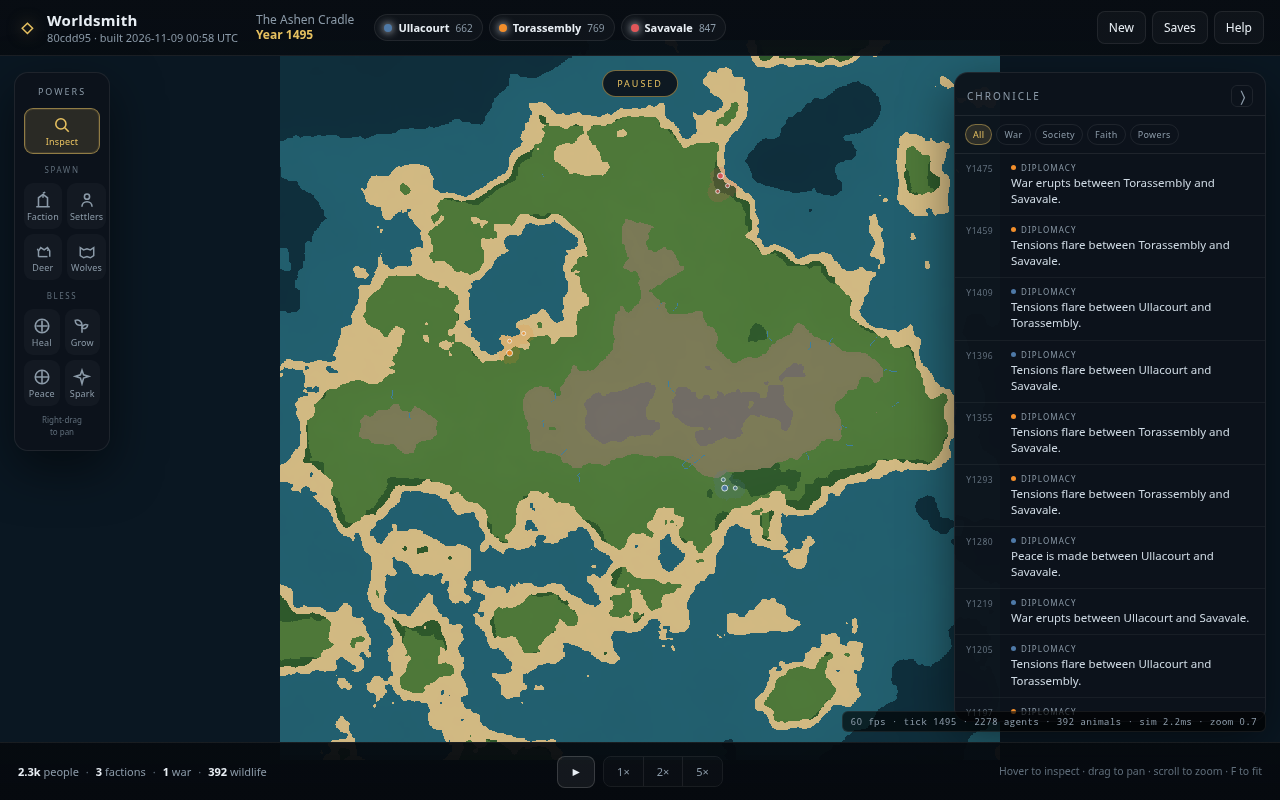
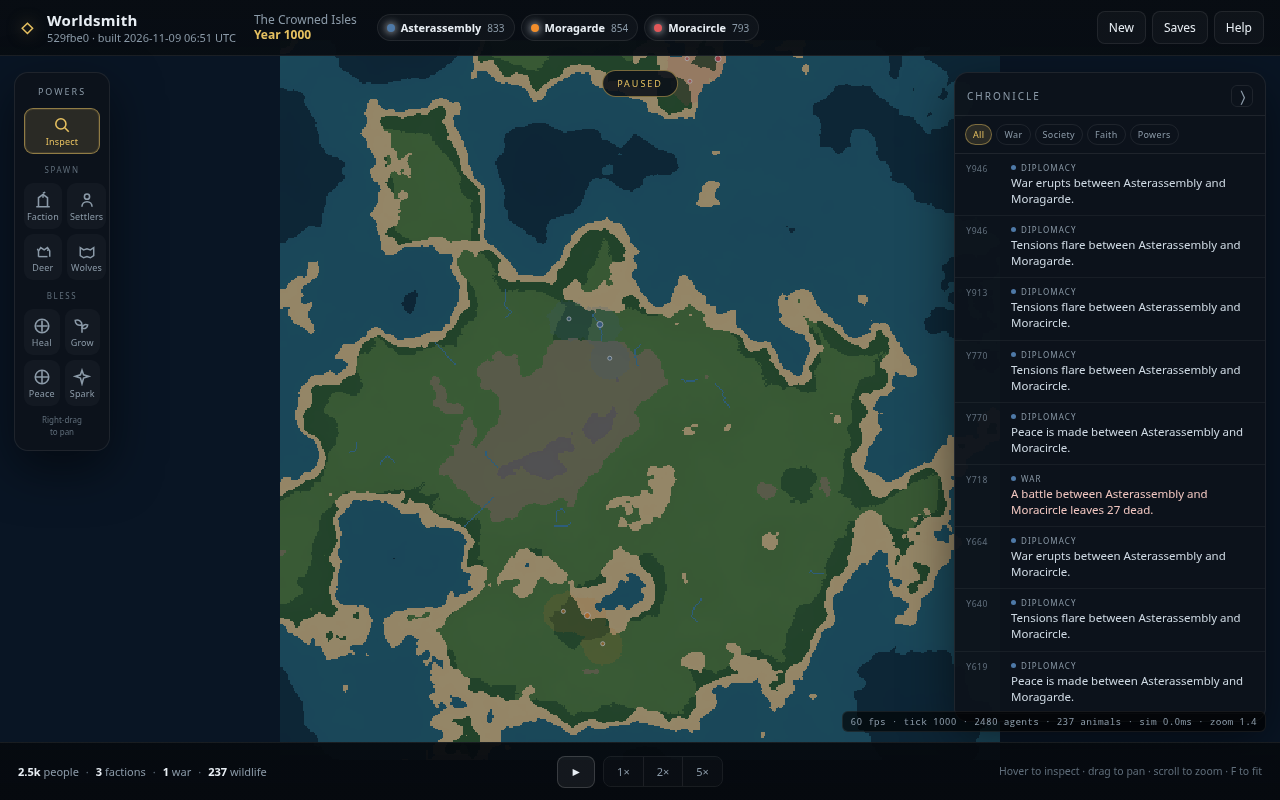
docs: record audit fixes and refresh screenshots

diff --git a/PLAN.md b/PLAN.md
@@ -62,6 +62,10 @@ In one line: **WorldBox-style living world, focused on societies rather than dis
   texture, territory overlay, cosmetic day/night, capital and settlement labels, boats.
 - **Ops** — Cloudflare Workers static-assets config, deploy script, commit/build
   metadata in the game header, dev server on `0.0.0.0`.
+- **Reliability & balance pass** — zero-population factions are eliminated, famine scales
+  with the food deficit and varies per person, migration/cross-settlement labour populates
+  new cities, defenders intercept and wars cause casualties, and the HUD exposes
+  per-settlement population/housing plus food shortages.
 
 ## 4. Milestones
 
@@ -75,6 +79,7 @@ In one line: **WorldBox-style living world, focused on societies rather than dis
 | 6 | Review-found war retry throttle | ✅ Done | `80cdd95`; 45 tests; 1024 pacing test 4.3 s → 1.1 s |
 | 7 | AGENTS.md & PLAN.md tracking | ✅ Done | This document |
 | 8 | Naval transport, Metropolis + multi-settlement growth, saves refresh, build-metadata safety, docs | ✅ Done | PR #11; 78 tests; browser QA |
+| 9 | Audit fixes: zero-pop extinction, proportional/varied famine, city migration + cross-settlement labour, defender interception, HUD warnings | ✅ Done | PR #11 follow-up; 85 tests; 1000-year run QA |
 
 ## 5. Verification snapshot
 
@@ -82,15 +87,18 @@ As of **2026-11-09** (branch `feat/navies-settlements-hardening`, based on `850f
 
 - `npm install` completed; `@types/node` and `wrangler` present.
 - `npm run typecheck` — pass.
-- `npm test` — **78/78 pass** across 15 test files (~12 s).
-- `npm run build` — pass; production `dist/` generated (39 modules, ~137 kB JS).
+- `npm test` — **85/85 pass** across 19 test files (~15 s).
+- `npm run build` — pass; production `dist/` generated (39 modules, ~140 kB JS).
 - Browser checks at 1280×800 — creation, 512²/1024² growth runs, Metropolis and
-  three-city faction panel, settlement labels, boat rendering, save slot → load,
-  live autosave row refresh while the Saves menu is open, old pre-change Slot I save
-  loads, no console errors.
+  three-city faction panel with per-settlement residents/housing, settlement labels,
+  boat rendering, save slot → load, live autosave row refresh while the Saves menu is
+  open, no console errors.
+- Audit runs (AUDIT3 512², AUDIT4 256², 1,000 years) — no zero-population “zombie”
+  factions, no empty satellite settlements, no famine extinctions; 2–12 battles and
+  47–557 casualties per run; navies sailed and landed.
 - Performance — 1024² at year 1401: **2,522 people / 9 cities / 626 buildings**, solid
-  **60 fps at 5×** zoomed out, **~1.6 ms/tick** simulation cost; 1,400 ticks in 3.6 s.
-  A 512² run reached 2,298 people across 9 cities by year 901.
+  **60 fps at 5×** zoomed out; a 512² run reached 2,468 people / 9 cities by year 1000
+  and stayed at ~60 fps at 5× in browser QA.
 - Dev server — `http://127.0.0.1:5173/`; responsive; no replacement server started.
 - Deployment — not performed; Cloudflare remains unauthenticated.
 - CI — intentionally **not added** (explicit user request); all verification is local.
@@ -106,6 +114,13 @@ As of **2026-11-09** (branch `feat/navies-settlements-hardening`, based on `850f
 - [x] **Build metadata test safety:** `__COMMIT_HASH__`/`__BUILD_DATE__` are defined
       for Vitest; header rendering is covered by `tests/build-info.test.ts`.
 - [x] **Keep docs current:** README screenshots, PLAN status, AGENTS constraints.
+- [x] **Audit fixes:** population extinction, proportional famine, empty-city
+      migration/labour, defender interception, food-shortage HUD warnings.
+- [ ] **Late-game economy:** resources cap and much of the population is idle; add
+      upkeep/sinks, more job slots or new late-era content.
+- [ ] **Four-city expansion:** the 512² agent cap makes the fourth city rare; tune the
+      expansion threshold or cap.
+- [ ] **War balance:** 256² casualty counts are high; tune army size and recovery.
 - [ ] **Automated browser smoke tests:** manual browser QA performed; automation
       (e.g. Playwright) still deferred.
 - [ ] **Deploy after approval:** needs Cloudflare credentials and explicit permission.
@@ -138,9 +153,11 @@ As of **2026-11-09** (branch `feat/navies-settlements-hardening`, based on `850f
 
 | Issue | Impact | Next step |
 |---|---|---|
+| Late-game resources cap and much labour is idle | Food/materials/wealth/knowledge saturate; most adults have no job slot | Add upkeep/sinks, more job slots or late-era content |
+| Fourth city is rare on 512² | Three civs reach the 2,500-agent cap before the 900-pop expansion mark | Tune expansion thresholds or raise the cap after profiling |
+| 256² wars are very costly | 557 casualties over 1,000 years in one audit run | Tune army size, healing and peace conditions |
 | No civilian sea migration or overseas settlements | New cities must be on the same landmass; navies are military-only | Future coastal expansion/colony mechanic |
 | Settlement founding is AI-only | Players cannot directly plant a city; factions expand on their own | Consider a "found settlement" power if requested |
-| Agent caps limit total population (1,200/2,500/4,000) | Very large worlds can hit the cap before every city fills | Profile and raise caps only if the target hardware allows |
 | Reachability/naval plans are derived, not serialized | Terrain-shape changes must call `refreshReachability()` | Keep future sculpting behind that hook |
 | Production deployment not performed | Cloudflare config validated locally only | Needs credentials + explicit approval |
 | Temporary IndexedDB fallback is session-only | Saves lost on reload/close | UI warns; expected for blocked storage |
@@ -173,6 +190,14 @@ As of **2026-11-09** (branch `feat/navies-settlements-hardening`, based on `850f
   reproduces exactly; reachability and naval caches are derived and never serialized.
 - **2026-11-09 — no CI:** explicitly excluded from this iteration; verification is
   local commands plus browser QA.
+- **2026-11-09 — audit run:** 1,000-year runs exposed zero-population factions still
+  marked alive, lockstep famine deaths, unpopulated satellite cities with idle capital
+  labour, and largely bloodless wars.
+- **2026-11-09 — audit fixes:** zero-population factions are eliminated; starvation is
+  proportional to the deficit with per-person variation; cross-settlement labour and
+  migration fill new cities; defenders intercept and wars produce casualties; HUD shows
+  settlement residents/housing and food shortages; settlement minimum spacing raised to
+  16 tiles. Late-game resource caps, fourth-city reach and war-cost tuning remain open.
 
 ## 10. How progress is tracked
 

diff --git a/README.md b/README.md
@@ -56,9 +56,10 @@ and whether to begin with three factions plus wildlife or an empty wilderness.
   has a patron belief that can spread to neighbours under the right conditions.
 - **Diplomacy and war** — relations drift with incidents, religion and trade-mindedness.
   Armies recruit from the people, march overland or sail across water, skirmish, siege
-  and raze. Unreachable factions will not declare war; cross-water campaigns last longer.
-  Wars end from exhaustion, duration, or divine intervention. A capital can fall — and
-  a faction with other cities fights on.
+  and raze. Defenders intercept raiders, so battles cost lives as well as buildings.
+  Unreachable factions will not declare war; cross-water campaigns last longer. Wars end
+  from exhaustion, duration, or divine intervention. A capital can fall — and a faction
+  with other cities fights on.
 - **Light wildlife** — deer wander and breed; wolves hunt deer. Populations are capped.
 - **A chronicle** — settlements, eras, wars, battles, peace, famine, conversions and
   divine acts are recorded. Entries with a location can be clicked to jump there.
@@ -177,7 +178,8 @@ or UI structure.
 Armies can sail, but civilians do not migrate by sea and new settlements must share
 their parent faction's landmass. Settlement founding is automatic AI expansion; there
 is no player "found city" power. Global agent caps (1,200 / 2,500 / 4,000) remain the
-authoritative population limit per world size.
+authoritative population limit per world size. In very long games resources can reach
+their caps and much of the population may be idle; late-game content is a follow-up.
 
 ## License
 

diff --git a/AGENTS.md b/AGENTS.md
@@ -79,7 +79,7 @@ the console. For simulation changes, also check save → load → continuation.
 
 ## Verification
 
-- `npm test` currently covers **78 checks** across 15 files. Keep it green.
+- `npm test` currently covers **85 checks** across 19 files. Keep it green.
 - Use `?debug=1` and the `window.__worldsmith` debug API
   (`startWorld`, `cast`, `save`, `load`, `speed`, `pause`, `stats`, `renderer`,
   `camera`) for browser verification.
@@ -97,6 +97,10 @@ the console. For simulation changes, also check save → load → continuation.
   player "found city" power.
 - Global agent caps (1,200 / 2,500 / 4,000 by world size) remain the authoritative
   population limit; very large worlds can hit the cap.
+- Late-game resources still cap and much of the population can be idle; this is a known
+  balance gap, not a correctness invariant.
+- Settlement expansion uses a minimum 16-tile gap; four-city expansion is still rare on
+  512² because of the agent cap.
 - Land/water reachability and naval plans are derived from terrain; call
   `Game.refreshReachability()` after any terrain-shape edit.
 - Deployment has only been validated locally; no production deployment has been
